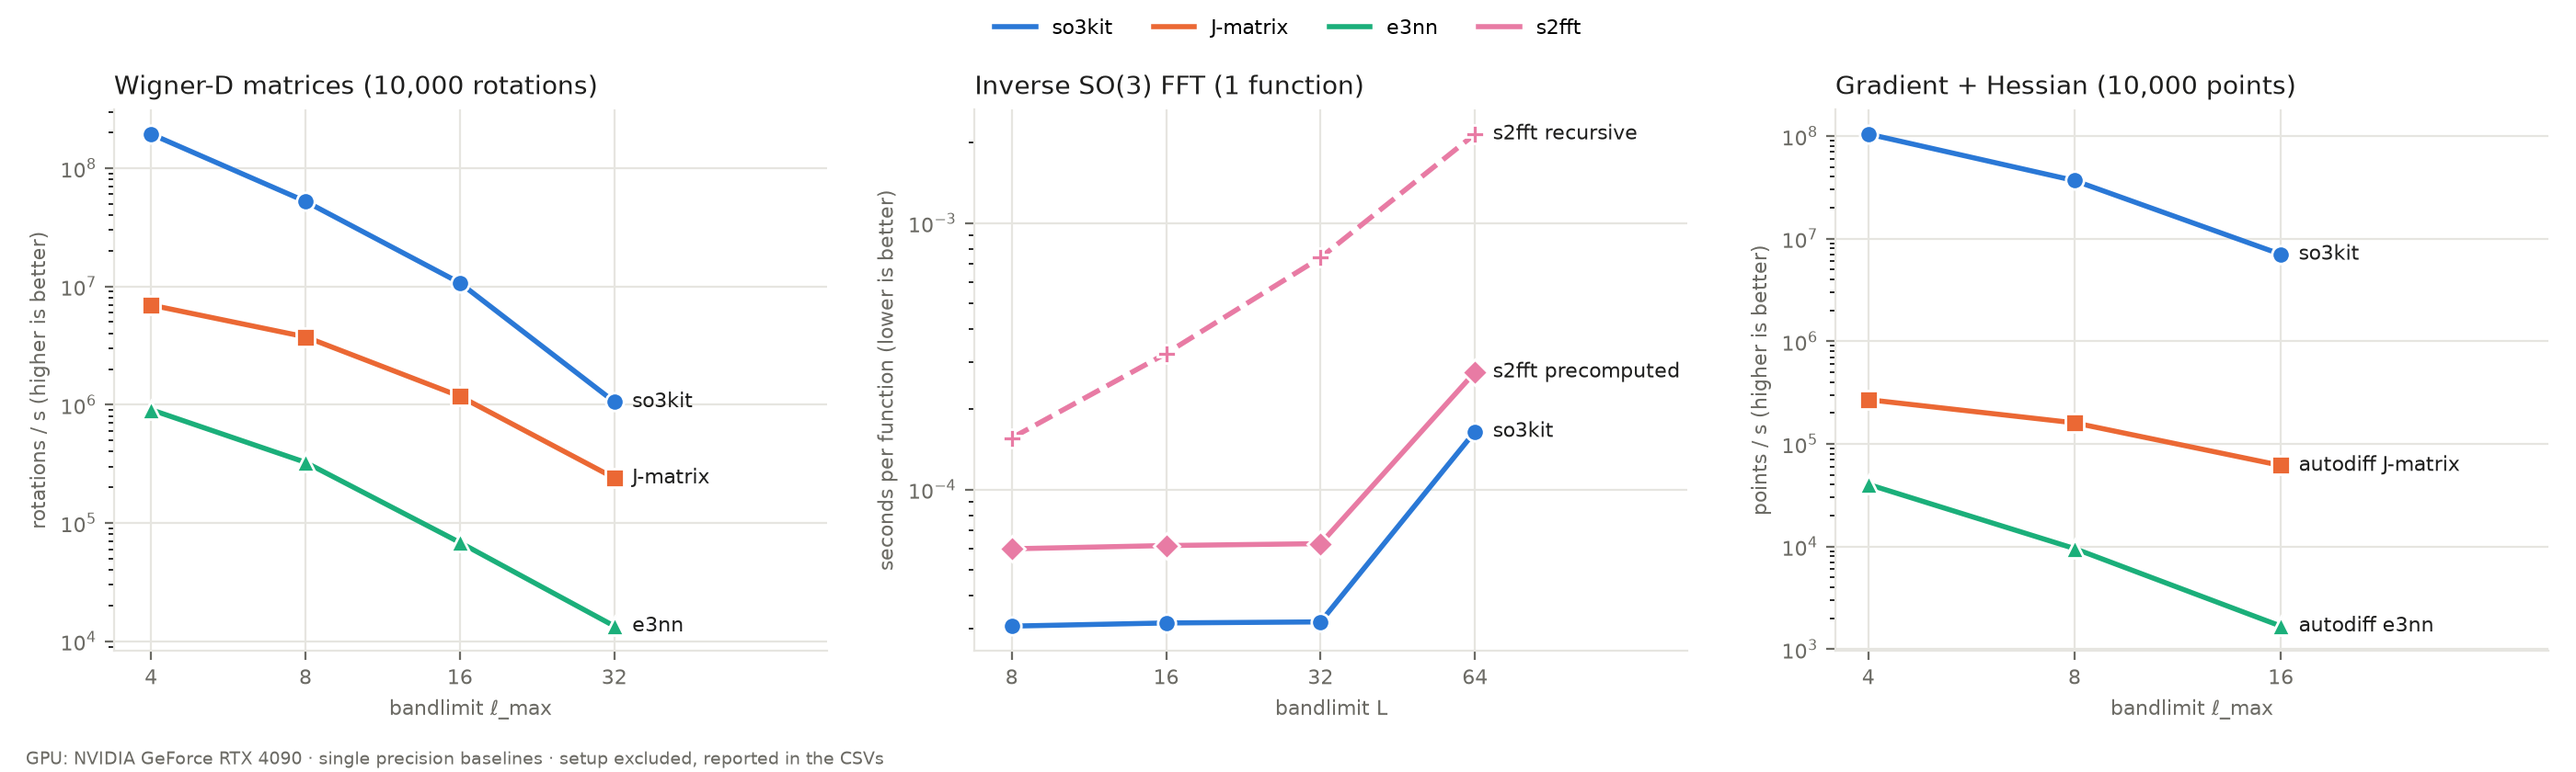
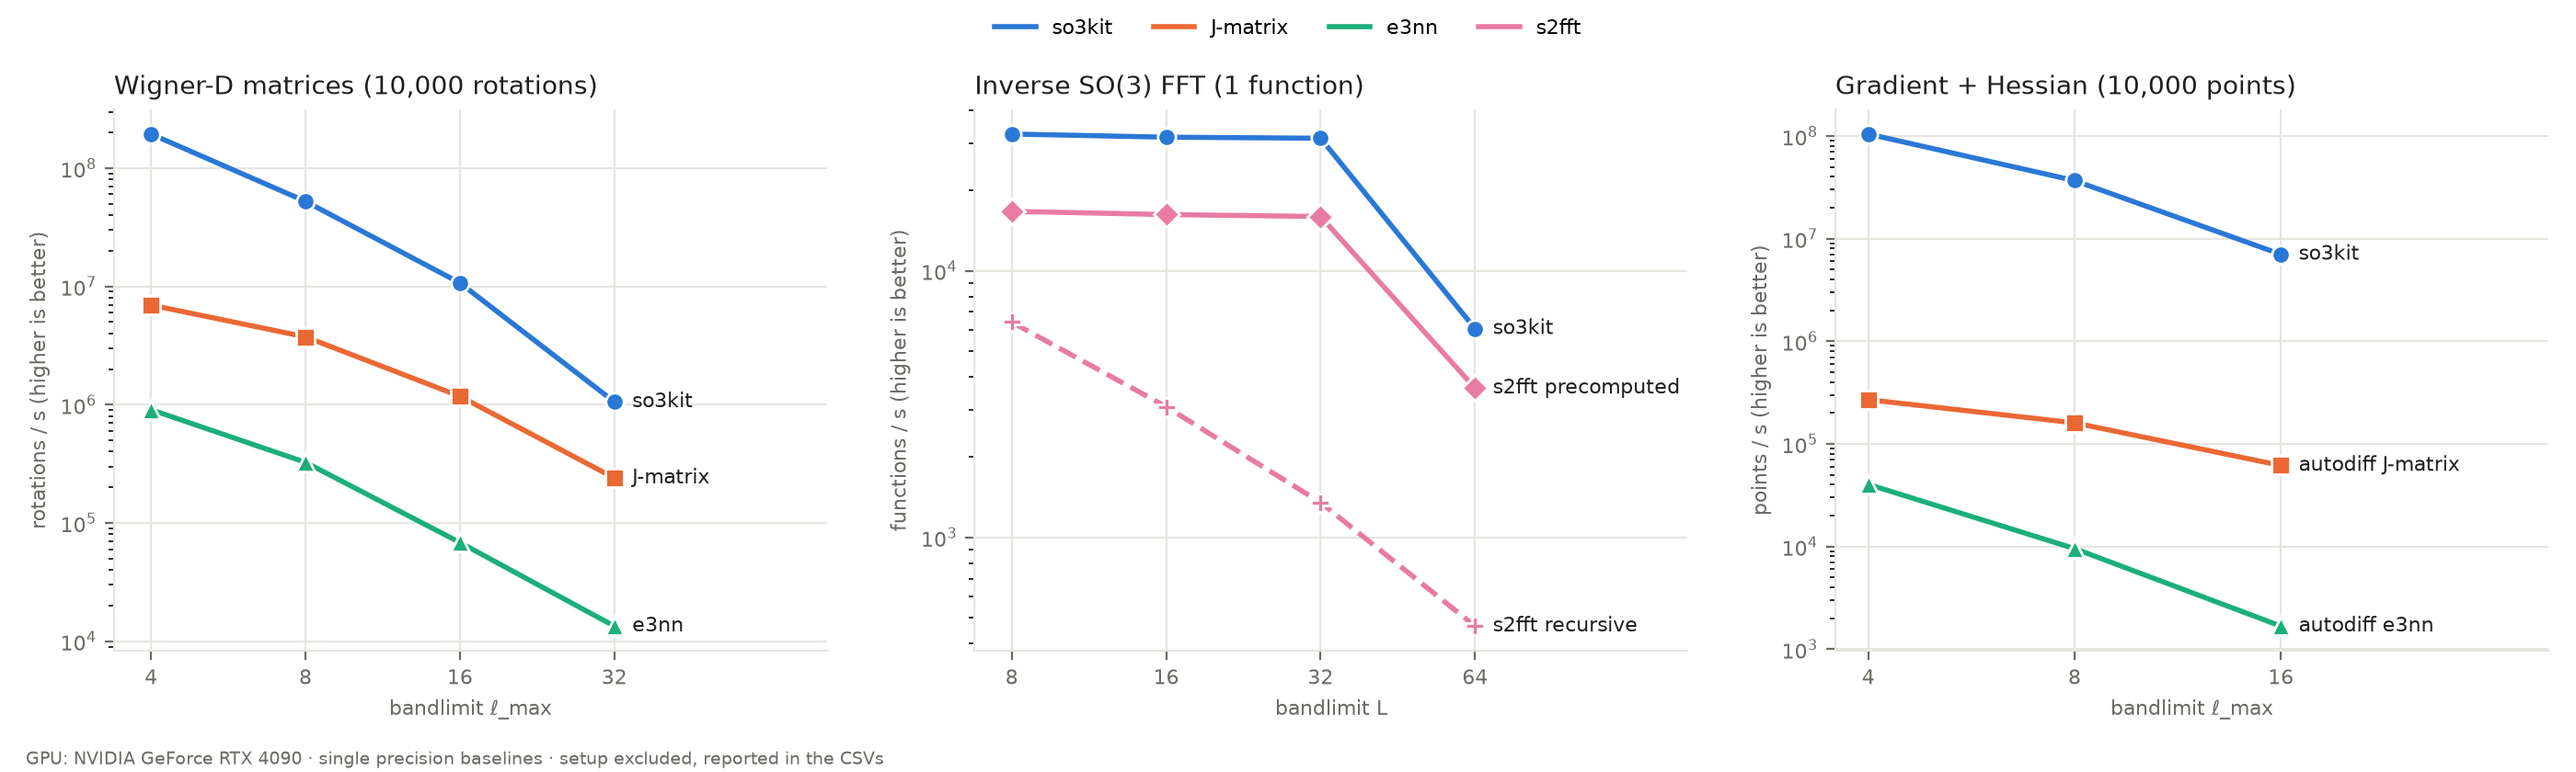
Benchmark figure: all panels higher is better (FFT in functions per second)

diff --git a/benchmarks/plot.py b/benchmarks/plot.py
@@ -29,9 +29,9 @@ PANELS = [
          series=[("so3kit", "so3kit", "so3kit", "o", "-"),
                  ("J-matrix", "J-matrix", "J-matrix", "s", "-"),
                  ("e3nn", "e3nn", "e3nn", "^", "-")]),
-    dict(file="sofft.csv", x="L", y="seconds_per_function", where={"batch": "1"},
+    dict(file="sofft.csv", x="L", y="seconds_per_function", invert=True, where={"batch": "1"},
          title="Inverse SO(3) FFT (1 function)", xlabel="bandlimit L",
-         ylabel="seconds per function (lower is better)",
+         ylabel="functions / s (higher is better)",
          series=[("so3kit", "so3kit", "so3kit", "o", "-"),
                  ("s2fft precomputed kernel [real]", "s2fft precomputed", "s2fft", "D", "-"),
                  ("s2fft recursive [real]", "s2fft recursive", "s2fft", "P", "--")]),
@@ -64,7 +64,8 @@ def panel(ax, spec):
     ax.set_title(spec["title"], loc="left", fontsize=10, color=INK)
     xticks = sorted({float(r[spec["x"]]) for r in rows})
     for backend, label, lib, marker, ls in spec["series"]:
-        pts = sorted((float(r[spec["x"]]), float(r[spec["y"]])) for r in rows if key(r) == backend)
+        f = (lambda v: 1.0 / v) if spec.get("invert") else (lambda v: v)
+        pts = sorted((float(r[spec["x"]]), f(float(r[spec["y"]]))) for r in rows if key(r) == backend)
         if not pts:
             continue
         xs, ys = zip(*pts)
